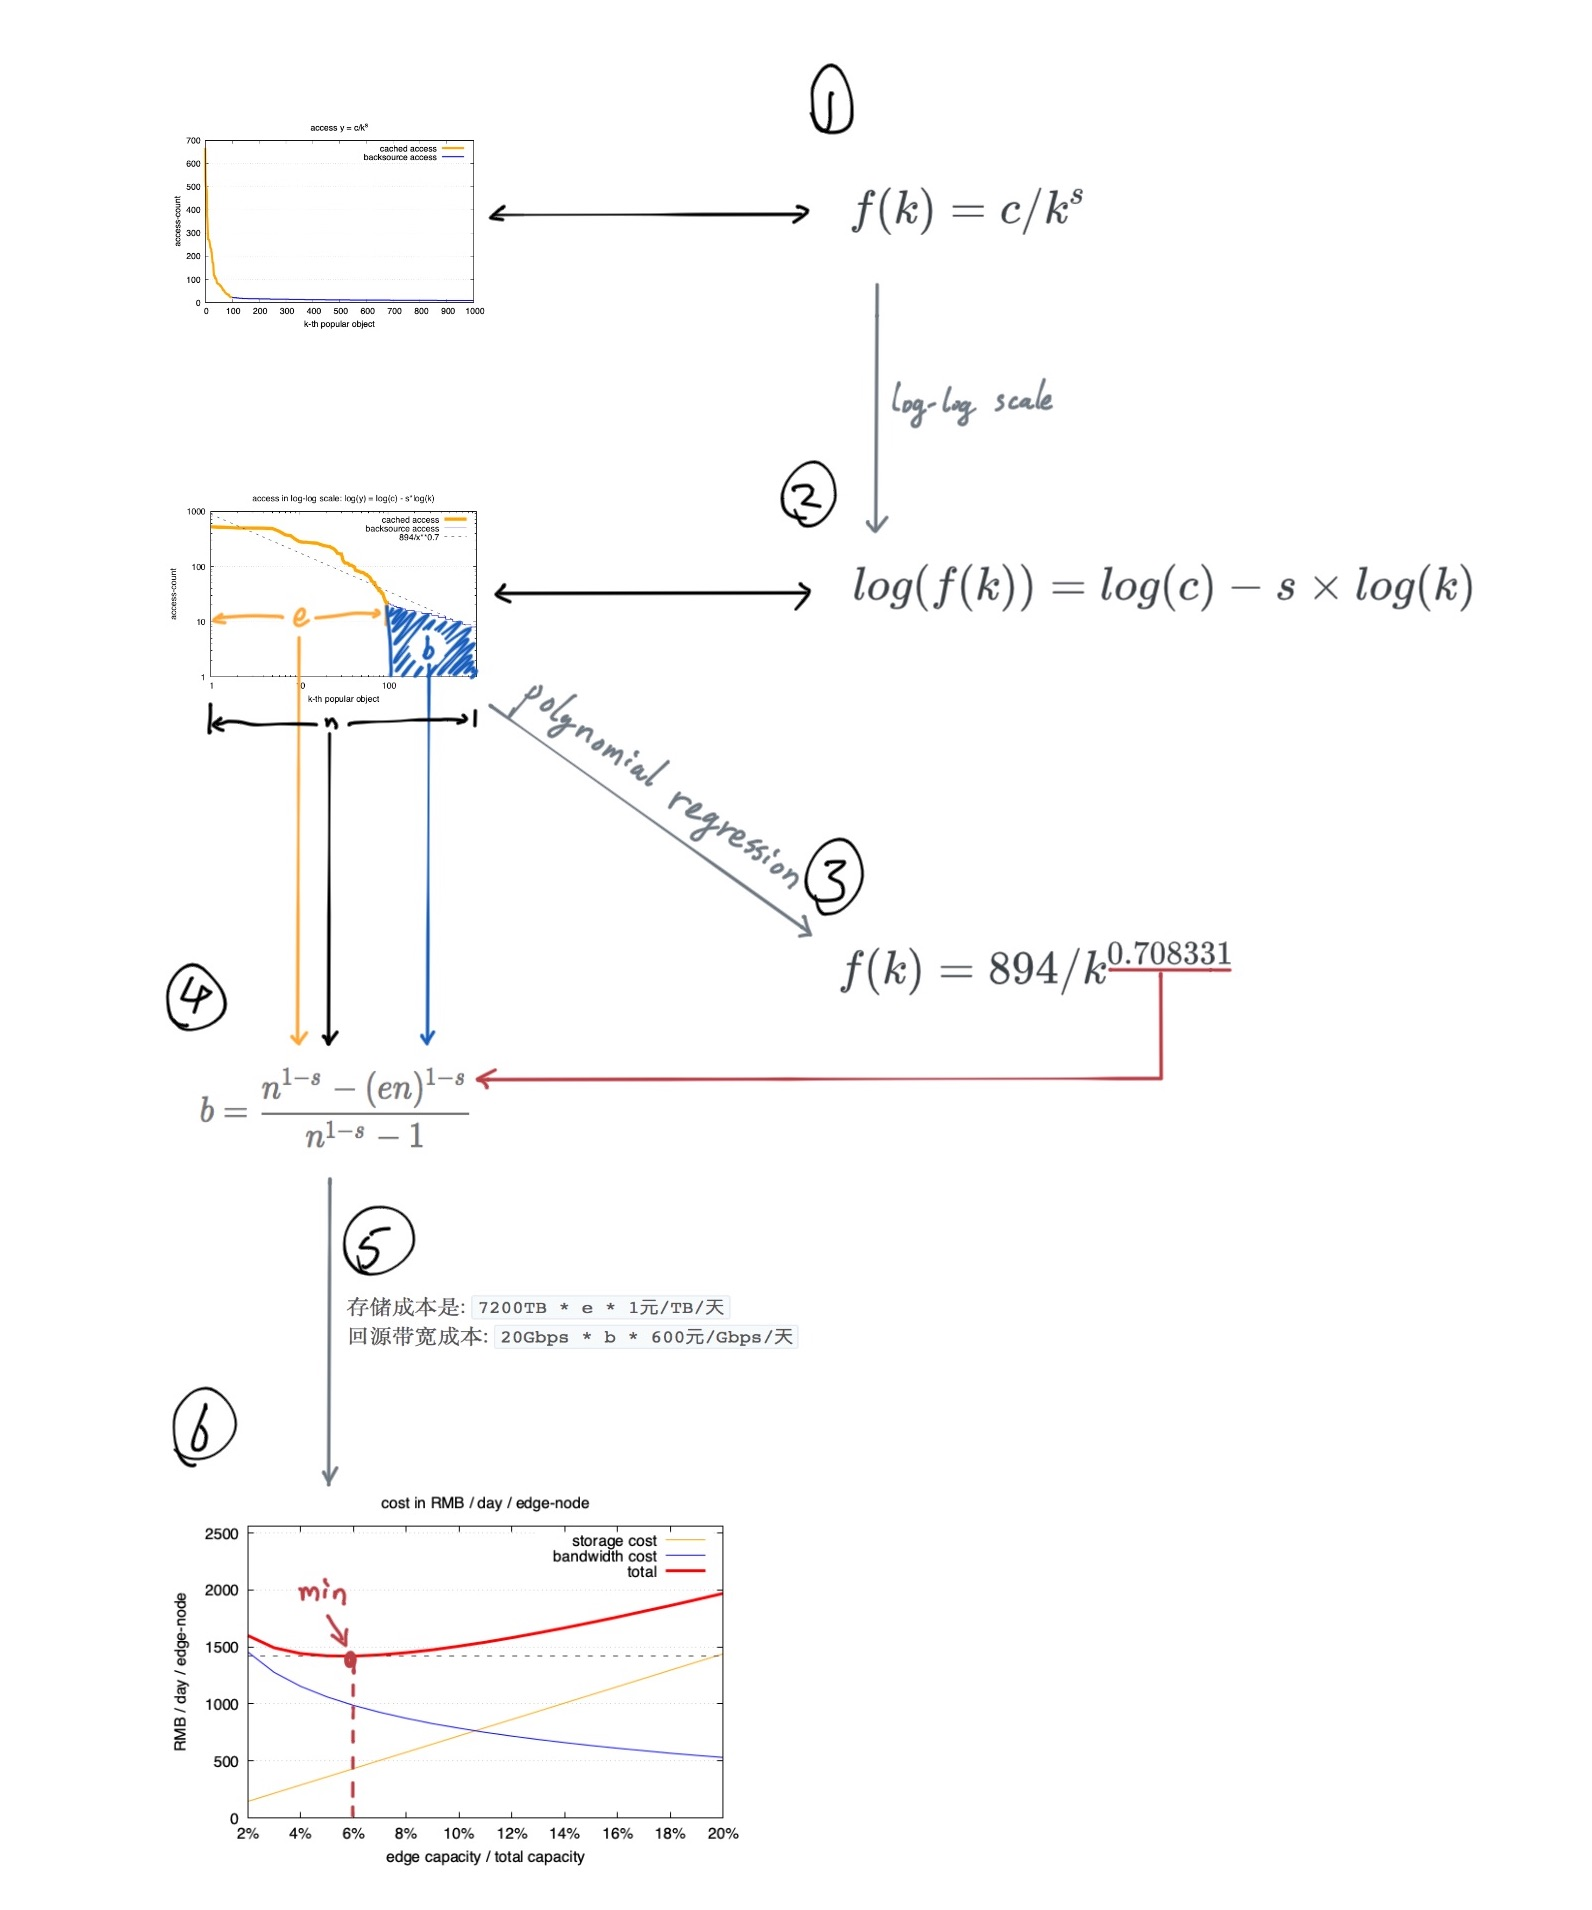
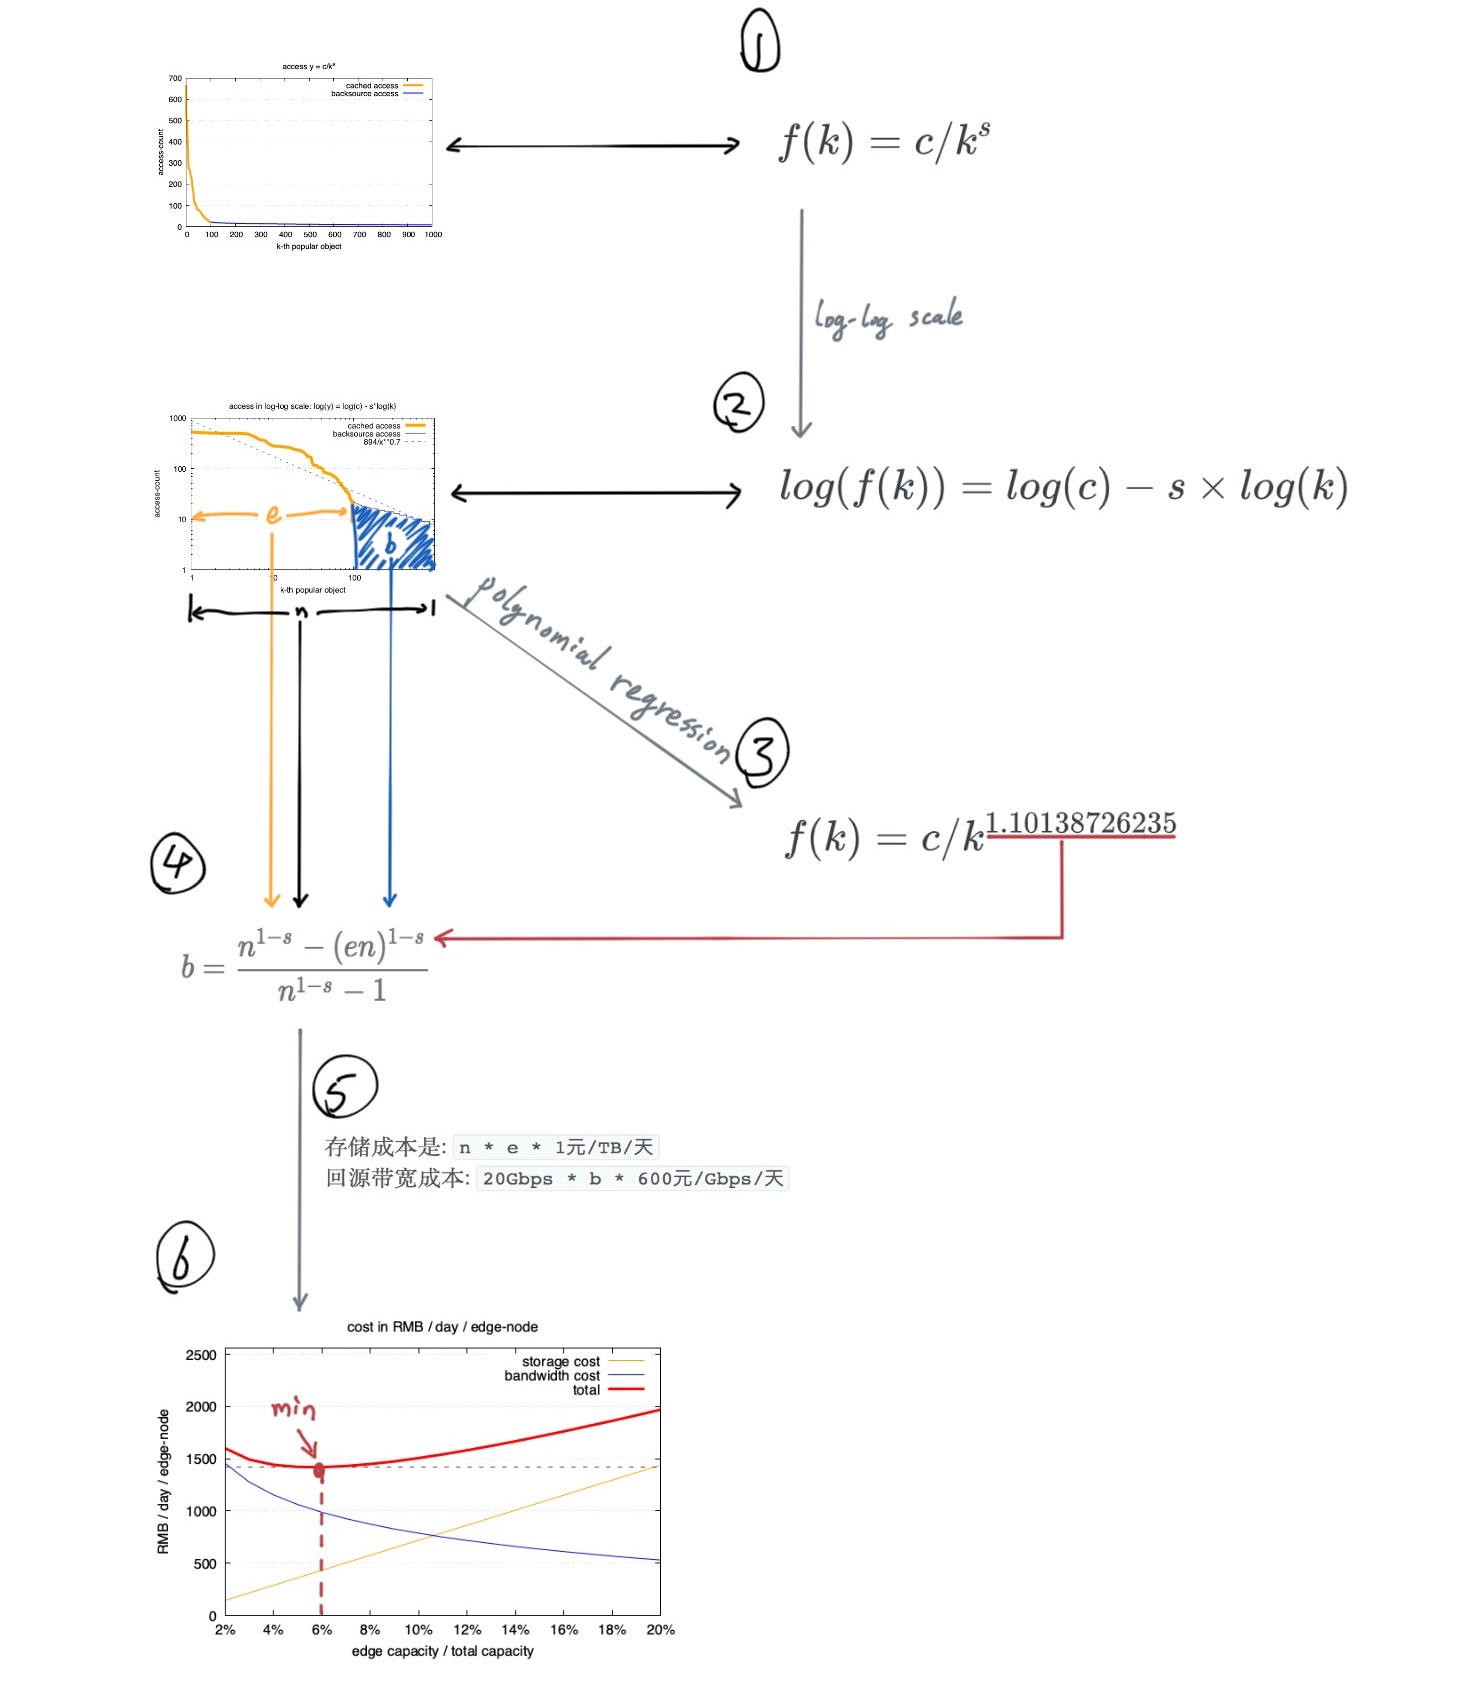
cdn: fix table: use another data set

diff --git a/_posts/2019-11-21-cdn.md b/_posts/2019-11-21-cdn.md
@@ -81,7 +81,7 @@ CDN ([Content delivery network](https://en.wikipedia.org/wiki/Content_delivery_n
 一个假想的业务场景和CDN服务配置如下:
 
 - 每个CDN边缘机房对外提供的日常下载总带宽: `20Gbps`，
-- 源站中所有文件的**总量**`n`: `7200TB`，
+- 源站中所有文件的**总量**`n`，
 - 边缘机房的存储容量占源站文件总量的比值: `e`(edge)，例如(图1)中，`e=10%`，每个边缘机房能存储1/10的内容。
 - 回源率`b`(backsource) 是边缘机房消耗的回源带宽跟这个边缘机房下载带宽的比值，例如(图1)中，`e=10%`时，`b=6%`。
 
@@ -139,7 +139,7 @@ f(k) =
 k^{0.708331}
 $$
 
-其中`s`的值 `s=0.708331`是我们后面计算需要用到的。
+其中`s`的值是我们后面计算需要用到的。
 
 > zipf中的`c`参数在我们的分析中没有被使用到，
 > 因为`c`只决定了文件被访问频率的分布的绝对值，而不影响分布的相对值。
@@ -207,7 +207,7 @@ $$
 
 根据以上设定，我们可以得到一个边缘机房中:
 
-- 存储成本是: `7200TB * e * 1元/TB/天`
+- 存储成本是: `n * e * 1元/TB/天`
 - 回源带宽成本: `20Gbps * b * 600元/Gbps/天`
 
 
@@ -220,8 +220,16 @@ $$
 1. 根据公式`(2)`计算对应的回源率`b`((图1)蓝色部分积分/蓝色黄色部分积分)，
 1. 再结合单位成本，得出每个`e`对应的总成本，
 
+这里我们选择一个更大的样本,
+其中`s=1.10138726235`, `n=8,000,000`,
 
-最后我们得到如下一个边缘容量`e`决定回源率`b`和成本的表格:
+$$
+f(k) =
+c/
+k^{1.10138726235}
+$$
+
+得到如下一个边缘容量`e`决定回源率`b`和成本的表格:
 
 | e:边缘存储容量占比%  | b:回源率% | 存储成本 | 回源带宽成本 | 总成本     |
 | --:                  | --:       | --:      | --:          | --:        |
